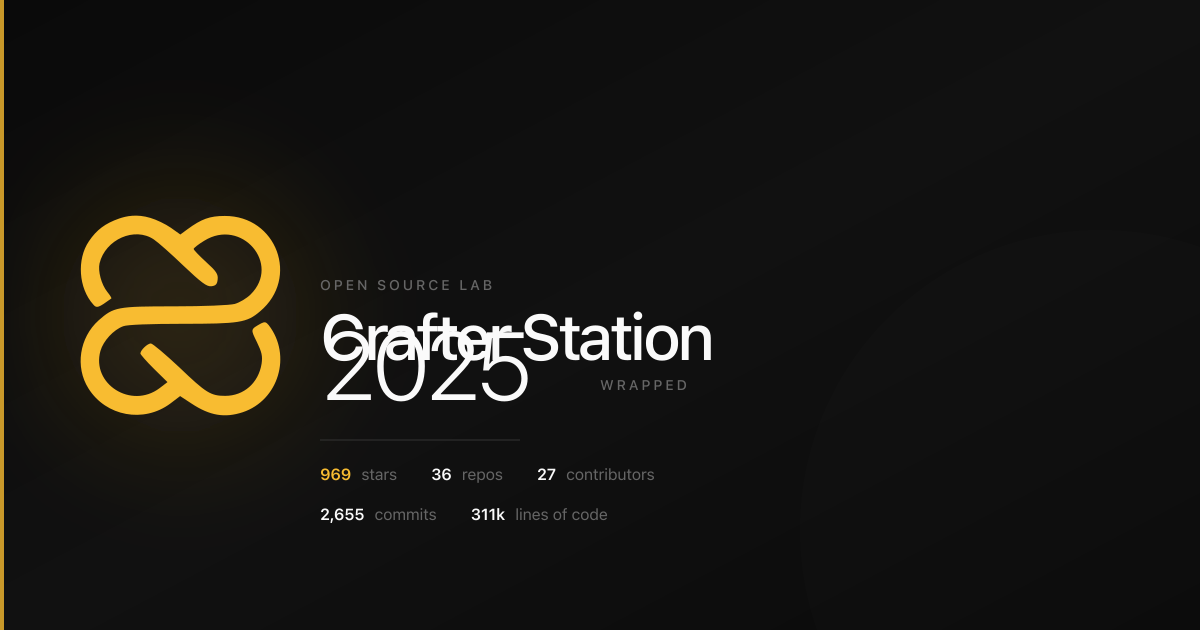
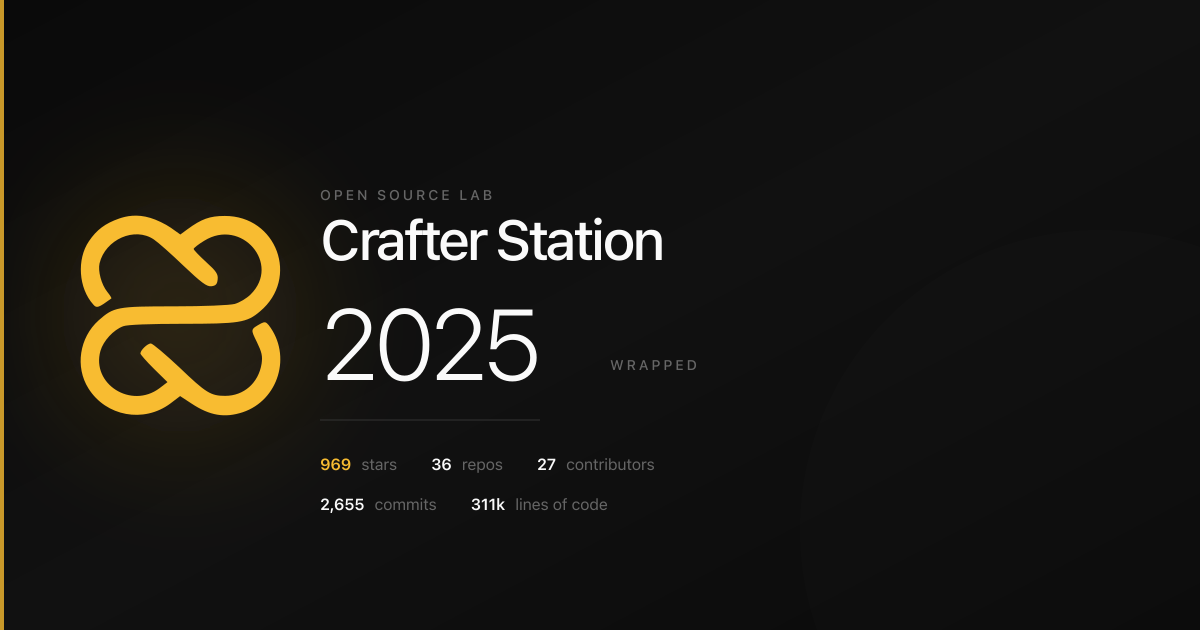
fix og text overlap

Changed region(s): [[0.2467, 0.4825, 0.6167, 0.6333], [0.2467, 0.3016, 0.555, 0.4524], [0.2467, 0.7238, 0.555, 0.8444]]

diff --git a/scripts/generate-assets.ts b/scripts/generate-assets.ts
@@ -34,26 +34,26 @@ async function generateOG() {
         <path d="${LOGO_PATH}" fill="#F8BC31"/>
       </g>
       
-      <text x="320" y="290" font-family="system-ui, -apple-system, sans-serif" font-size="14" font-weight="500" fill="#666" letter-spacing="3">
+      <text x="320" y="200" font-family="system-ui, -apple-system, sans-serif" font-size="14" font-weight="500" fill="#666" letter-spacing="3">
         OPEN SOURCE LAB
       </text>
       
-      <text x="320" y="360" font-family="system-ui, -apple-system, sans-serif" font-size="64" font-weight="500" fill="#fafafa" letter-spacing="-1">
+      <text x="320" y="260" font-family="system-ui, -apple-system, sans-serif" font-size="56" font-weight="500" fill="#fafafa" letter-spacing="-1">
         Crafter Station
       </text>
       
-      <g transform="translate(320, 400)">
-        <text font-family="system-ui, -apple-system, sans-serif" font-size="96" font-weight="200" fill="#fafafa" letter-spacing="-3">
+      <g transform="translate(320, 380)">
+        <text font-family="system-ui, -apple-system, sans-serif" font-size="100" font-weight="200" fill="#fafafa" letter-spacing="-3">
           2025
         </text>
-        <text x="280" y="-10" font-family="system-ui, -apple-system, sans-serif" font-size="14" font-weight="500" fill="#666" letter-spacing="3">
+        <text x="290" y="-10" font-family="system-ui, -apple-system, sans-serif" font-size="14" font-weight="500" fill="#666" letter-spacing="3">
           WRAPPED
         </text>
       </g>
       
-      <line x1="320" y1="440" x2="520" y2="440" stroke="#333" stroke-width="1"/>
+      <line x1="320" y1="420" x2="540" y2="420" stroke="#333" stroke-width="1"/>
       
-      <g transform="translate(320, 480)">
+      <g transform="translate(320, 470)">
         <text font-family="system-ui, -apple-system, sans-serif" font-size="16" fill="#888">
           <tspan font-weight="600" fill="#F8BC31">${stats.totalStars}</tspan>
           <tspan fill="#666" dx="6">stars</tspan>
@@ -64,7 +64,7 @@ async function generateOG() {
         </text>
       </g>
       
-      <g transform="translate(320, 520)">
+      <g transform="translate(320, 510)">
         <text font-family="system-ui, -apple-system, sans-serif" font-size="16" fill="#888">
           <tspan font-weight="600" fill="#fafafa">${stats.totalCommits.toLocaleString()}</tspan>
           <tspan fill="#666" dx="6">commits</tspan>
